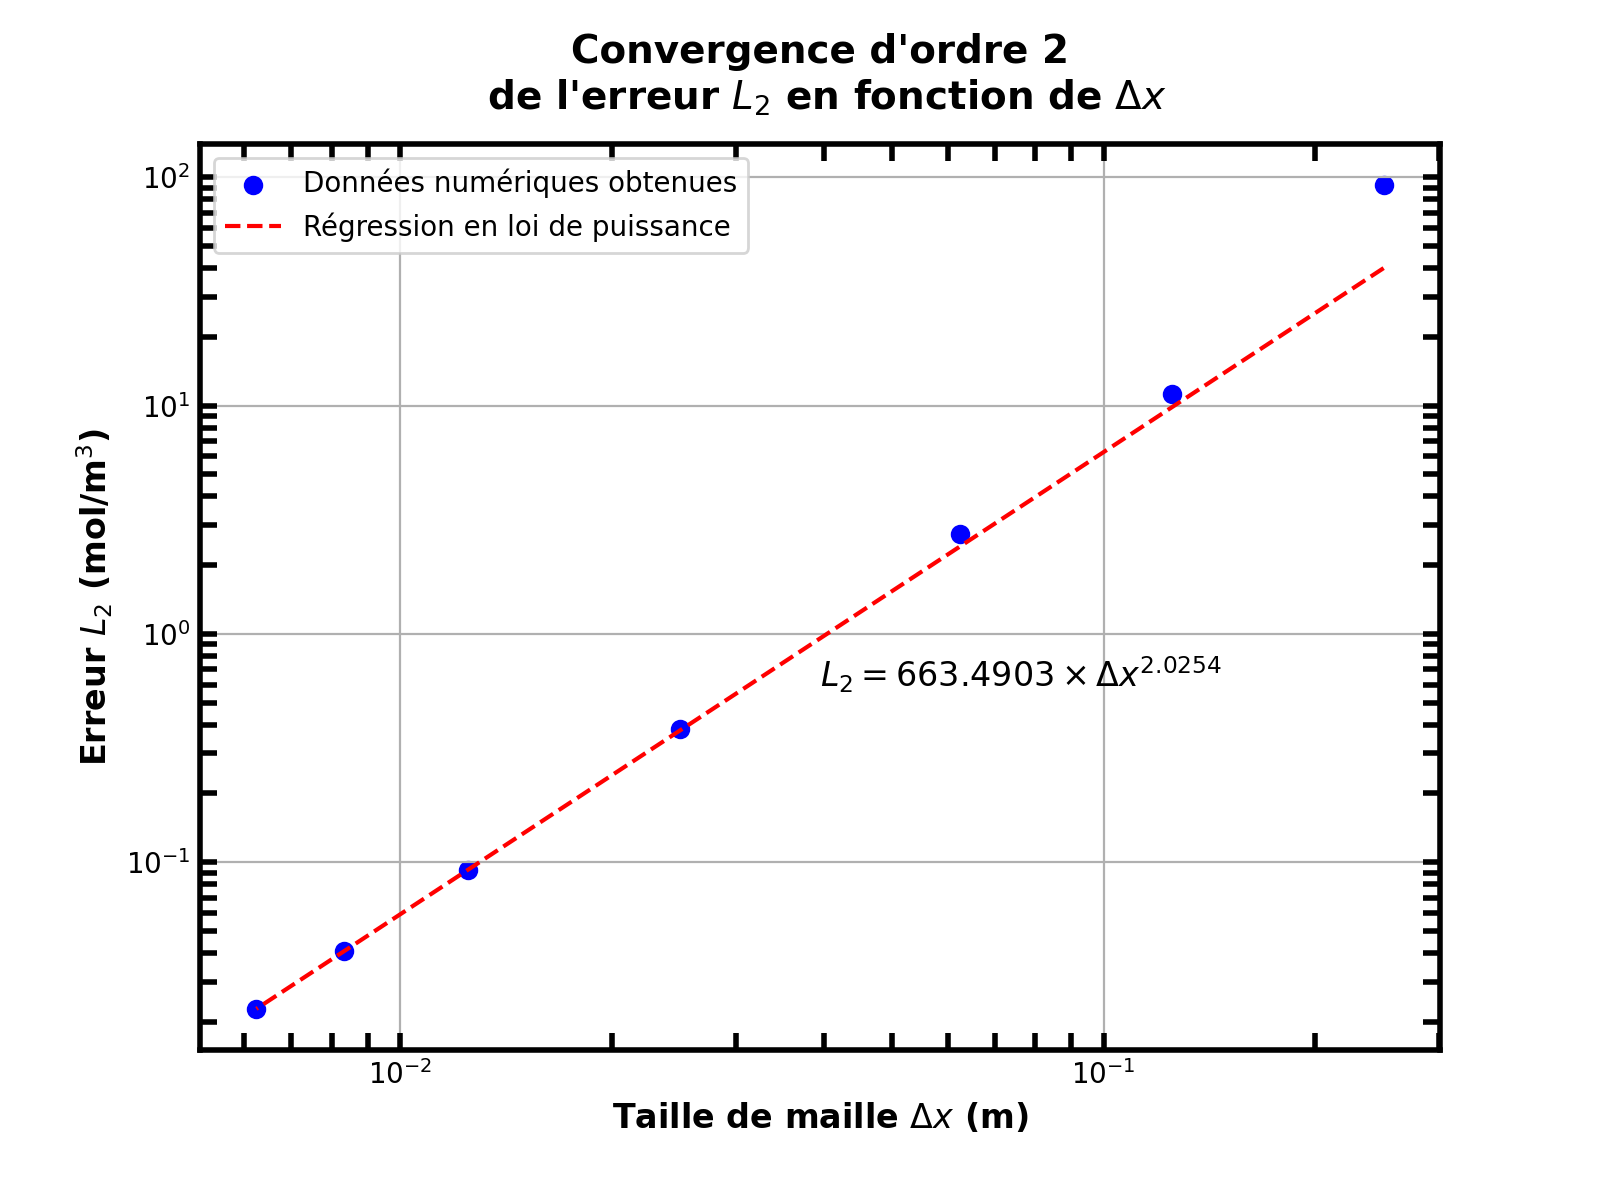
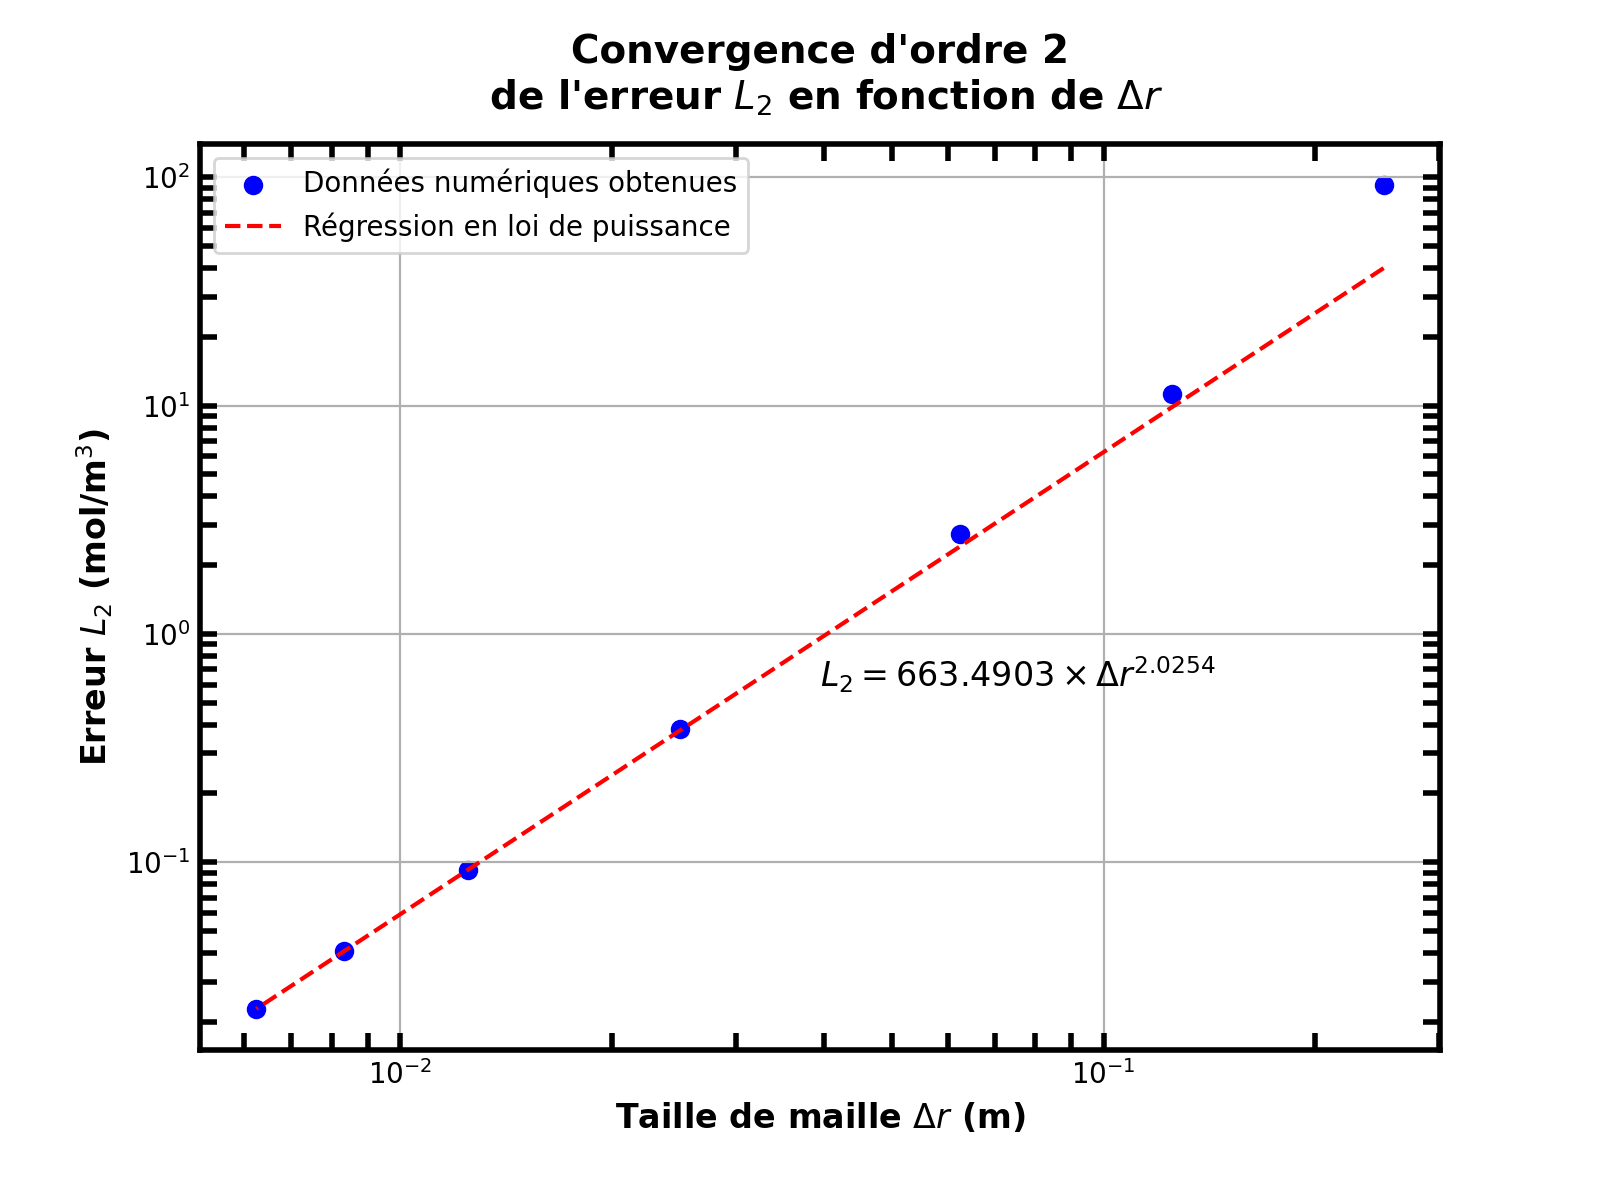
Changement dx pour dr

Changed region(s): [[0.3125, 0.0617, 0.7188, 0.0925], [0.375, 0.925, 0.6562, 0.9558], [0.6875, 0.5242, 0.75, 0.5858]]

diff --git a/Devoir2/src/anal_conv_MMS.py b/Devoir2/src/anal_conv_MMS.py
@@ -92,10 +92,10 @@ plt.plot(h, fit_function(h), linestyle='--', color='r', label='Régression en lo
 #plt.scatter(h_values[-1], extrapolated_value, marker='x', color='g', label='Extrapolation')
 
 # Ajouter des étiquettes et un titre au graphique
-plt.title('Convergence d\'ordre 2\n de l\'erreur $L_2$ en fonction de $Δx$',
+plt.title('Convergence d\'ordre 2\n de l\'erreur $L_2$ en fonction de $Δr$',
           fontsize=14, fontweight='bold', y=1.02)  # Le paramètre y règle la position verticale du titre
 
-plt.xlabel('Taille de maille $Δx$ (m)', fontsize=12, fontweight='bold')  
+plt.xlabel('Taille de maille $Δr$ (m)', fontsize=12, fontweight='bold')  
 plt.ylabel('Erreur $L_2$ (mol/m$^3$)', fontsize=12, fontweight='bold')
 
 # Rendre les axes plus gras
@@ -108,7 +108,7 @@ plt.gca().spines['top'].set_linewidth(2)
 plt.tick_params(width=2, which='both', direction='in', top=True, right=True, length=6)
 
 # Afficher l'équation de la régression en loi de puissance
-equation_text = f'$L_2 = {np.exp(coefficients[1]):.4f} \\times Δx^{{{exponent:.4f}}}$'
+equation_text = f'$L_2 = {np.exp(coefficients[1]):.4f} \\times Δr^{{{exponent:.4f}}}$'
 equation_text_obj = plt.text(0.05, 0.05, equation_text, fontsize=12, transform=plt.gca().transAxes, color='k')
 
 # Déplacer la zone de texte

diff --git a/Devoir2/src/anal_conv_comsol.py b/Devoir2/src/anal_conv_comsol.py
@@ -55,10 +55,10 @@ plt.plot(h, fit_function(h), linestyle='--', color='r', label='Régression en lo
 #plt.scatter(h_values[-1], extrapolated_value, marker='x', color='g', label='Extrapolation')
 
 # Ajouter des étiquettes et un titre au graphique
-plt.title('Convergence d\'ordre 2\n de l\'erreur $L_2$ en fonction de $Δx$',
+plt.title('Convergence d\'ordre 2\n de l\'erreur $L_2$ en fonction de $Δr$',
           fontsize=14, fontweight='bold', y=1.02)  # Le paramètre y règle la position verticale du titre
 
-plt.xlabel('Taille de maille $Δx$ (m)', fontsize=12, fontweight='bold')  
+plt.xlabel('Taille de maille $Δr$ (m)', fontsize=12, fontweight='bold')  
 plt.ylabel('Erreur $L_2$ (mol/m$^3$)', fontsize=12, fontweight='bold')
 
 # Rendre les axes plus gras
@@ -71,7 +71,7 @@ plt.gca().spines['top'].set_linewidth(2)
 plt.tick_params(width=2, which='both', direction='in', top=True, right=True, length=6)
 
 # Afficher l'équation de la régression en loi de puissance
-equation_text = f'$L_2 = {np.exp(coefficients[1]):.4f} \\times Δx^{{{exponent:.4f}}}$'
+equation_text = f'$L_2 = {np.exp(coefficients[1]):.4f} \\times Δr^{{{exponent:.4f}}}$'
 equation_text_obj = plt.text(0.05, 0.05, equation_text, fontsize=12, transform=plt.gca().transAxes, color='k')
 
 # Déplacer la zone de texte
